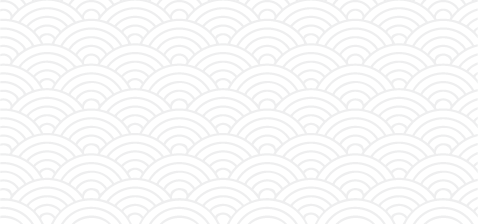
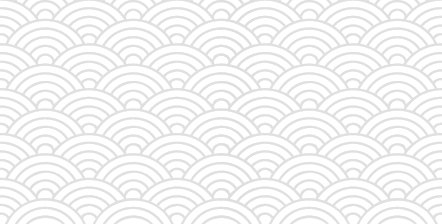
change background

Changed region(s): [[0.0, 0.0, 1.0, 1.0]]

diff --git a/index.html b/index.html
@@ -119,9 +119,9 @@
 		mask-repeat: no-repeat;
 		mask-size: 50% 50%;
 		background-image: url(img/bg-japanese-wave.png) !important;
-		background-repeat: no-repeat !important;
+		background-repeat: repeat !important;
 		background-attachment: fixed !important;
-		background-position: center !important; 
+		background-position:  center bottom !important; 
 	}
 	
 	.close-envelope-popup-img-bridegroom{
